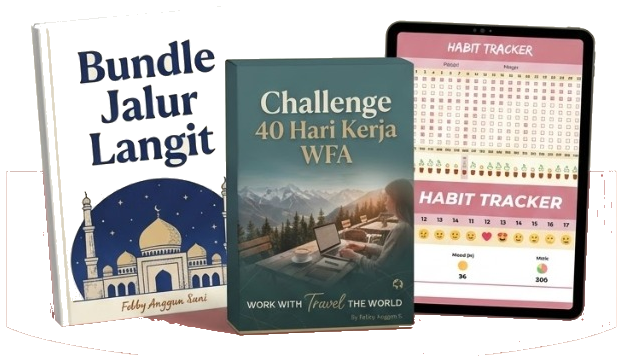
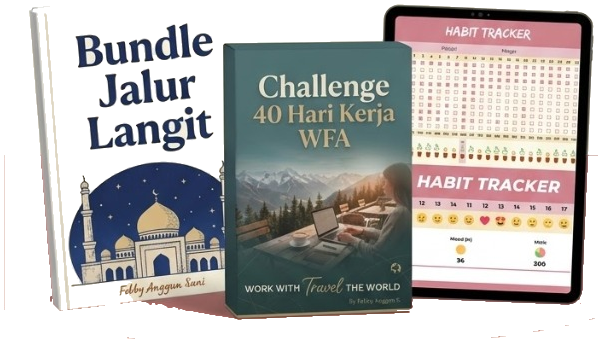
fix(products): tightly crop bundle-creator & bundle-ai cutouts for proportional sizing

diff --git a/css/style.css b/css/style.css
@@ -1524,19 +1524,17 @@ video {
   background: linear-gradient(160deg, #FAFBEA 0%, #F2F6DF 100%);
   border: 1px solid var(--line);
   border-radius: 14px;
-  height: 235px;
+  height: 220px;
   display: flex;
   align-items: center;
   justify-content: center;
-  padding: 18px 14px;
+  padding: 12px 8px;
   overflow: hidden;
 }
 
 .bundle-mockup-img {
-  max-width: 100%;
-  max-height: 100%;
-  width: auto;
-  height: auto;
+  width: 100%;
+  height: 100%;
   object-fit: contain;
   filter: drop-shadow(0 12px 22px rgba(27, 94, 43, 0.16));
   transition: transform 0.35s var(--ease-fluid), filter 0.35s var(--ease-fluid);

diff --git a/css/style.min.css b/css/style.min.css
@@ -1524,19 +1524,17 @@ video {
   background: linear-gradient(160deg, #FAFBEA 0%, #F2F6DF 100%);
   border: 1px solid var(--line);
   border-radius: 14px;
-  height: 235px;
+  height: 220px;
   display: flex;
   align-items: center;
   justify-content: center;
-  padding: 18px 14px;
+  padding: 12px 8px;
   overflow: hidden;
 }
 
 .bundle-mockup-img {
-  max-width: 100%;
-  max-height: 100%;
-  width: auto;
-  height: auto;
+  width: 100%;
+  height: 100%;
   object-fit: contain;
   filter: drop-shadow(0 12px 22px rgba(27, 94, 43, 0.16));
   transition: transform 0.35s var(--ease-fluid), filter 0.35s var(--ease-fluid);
